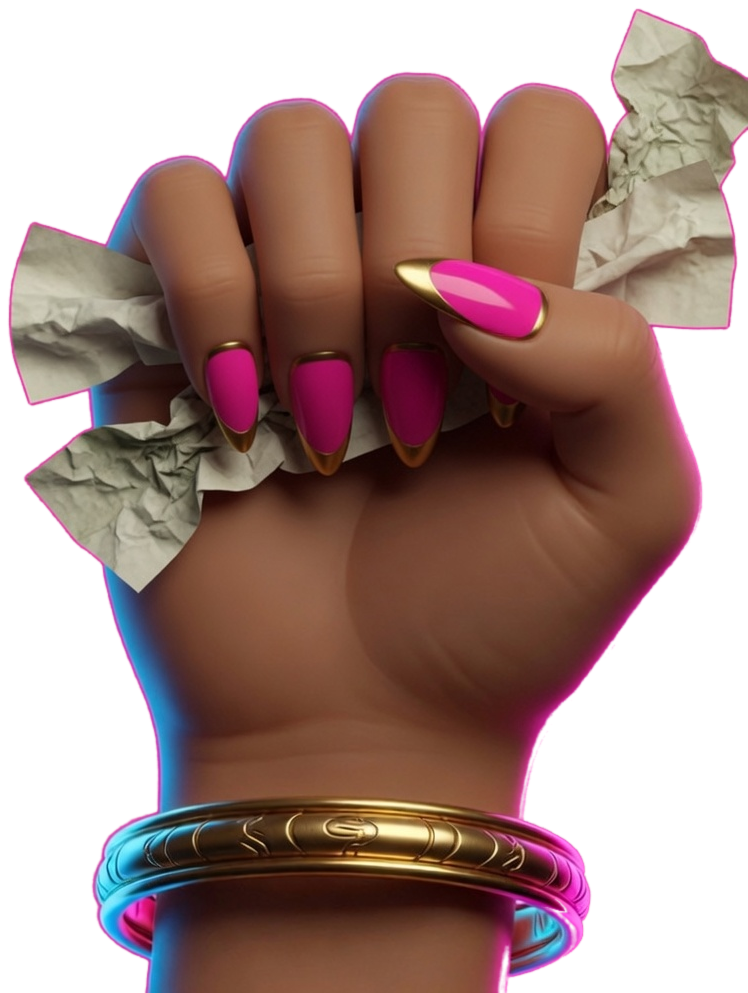
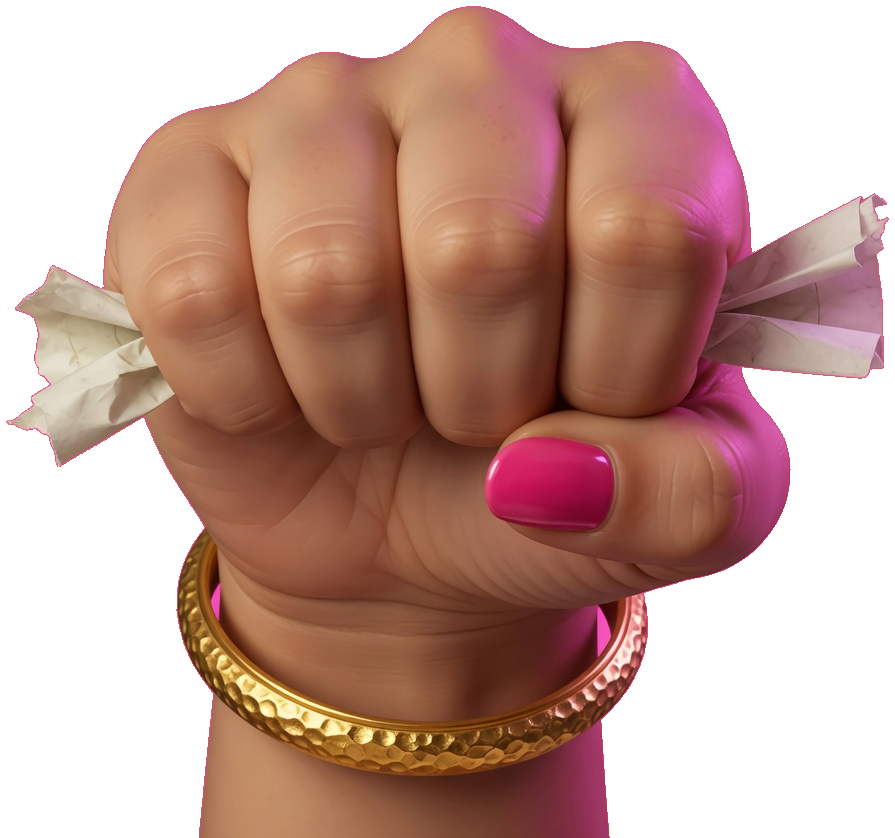
fix: Stage Tips knuckle grab, X share, Steam button
Grab shows the back of the fist. X posts open with the score and
the mini-game link. Wishlist buttons point at Steam with the new line.

diff --git a/stage-tips/game.js b/stage-tips/game.js
@@ -283,7 +283,7 @@
   grabImg.onload = function () { spritesReady += 1; };
   forearmImg.onload = function () { spritesReady += 1; };
   handImg.src = 'hand.png';
-  grabImg.src = 'hand-grab.png';
+  grabImg.src = 'hand-grab.png?v=knuckle';
   forearmImg.src = 'forearm.png';
 
   function stepFloater(f, tx, ty, dt) {
@@ -336,9 +336,9 @@
     len = hw * 2.04;
     inset = fw * 0.2;
     sprite = (f.grabUntil && performance.now() < f.grabUntil) ? grabImg : handImg;
-    wristFrac = sprite === grabImg ? 0.838 : 0.88;
+    wristFrac = sprite === grabImg ? 0.894 : 0.88;
     if (sprite === grabImg) {
-      hw *= 0.418 / 0.441;
+      hw *= 0.418 / 0.385;
     }
     hh = hw * (sprite.height / sprite.width);
     ctx.save();
@@ -645,9 +645,10 @@
   document.getElementById('shareBtn').addEventListener('click', function () {
     var text = 'I caught ' + money(match ? match.cash : 0) + ' in tips! Can you beat my score?';
     var page = 'https://stripclubempire.com/stage-tips/';
+    var post = text + ' ' + page;
     var sheet = document.getElementById('shareSheet');
-    document.getElementById('sharePreview').textContent = text;
-    document.getElementById('shareX').href = 'https://twitter.com/intent/tweet?text=' + encodeURIComponent(text) + '&url=' + encodeURIComponent(page);
+    document.getElementById('sharePreview').textContent = post;
+    document.getElementById('shareX').href = 'https://x.com/intent/post?text=' + encodeURIComponent(post);
     document.getElementById('shareFb').href = 'https://www.facebook.com/sharer/sharer.php?u=' + encodeURIComponent(page) + '&quote=' + encodeURIComponent(text);
     document.getElementById('shareReddit').href = 'https://www.reddit.com/submit?url=' + encodeURIComponent(page) + '&title=' + encodeURIComponent(text);
     sheet.hidden = false;

diff --git a/stage-tips/index.html b/stage-tips/index.html
@@ -87,7 +87,7 @@
           <p id="bestStart" class="best-note" hidden></p>
           <div class="actions">
             <button type="button" class="btn btn-primary" id="playBtn">Play</button>
-            <a class="btn btn-secondary" href="https://store.steampowered.com/app/4994860/Strip_Club_Empire/" target="_blank" rel="noopener">Wishlist Strip Club Empire</a>
+            <a class="btn btn-secondary" href="https://store.steampowered.com/app/4994860/Strip_Club_Empire/" target="_blank" rel="noopener">Wanna manage your own strip club? Visit Strip Club Empire on Steam</a>
           </div>
           <p class="fine">A one-minute slice of the club. The real game is a management sim: design the floor, run the night, grow the empire.</p>
         </div>
@@ -105,7 +105,7 @@
           <p id="endBest" class="best-note"></p>
           <p>This was a minute and a half on stage. The full game is designing and running the whole club.</p>
           <div class="end-actions">
-            <a class="btn btn-primary" href="https://store.steampowered.com/app/4994860/Strip_Club_Empire/" target="_blank" rel="noopener">Wishlist the full club on Steam</a>
+            <a class="btn btn-primary" href="https://store.steampowered.com/app/4994860/Strip_Club_Empire/" target="_blank" rel="noopener">Wanna manage your own strip club? Visit Strip Club Empire on Steam</a>
             <button type="button" class="btn btn-secondary" id="againBtn">Play again</button>
             <button type="button" class="btn btn-secondary" id="shareBtn">Share score</button>
           </div>

diff --git a/stage-tips/style.css b/stage-tips/style.css
@@ -89,6 +89,9 @@ h1 { font-size: clamp(28px, 6vw, 40px); }
   display: inline-flex;
   align-items: center;
   justify-content: center;
+  text-align: center;
+  line-height: 1.3;
+  white-space: normal;
   min-height: 48px;
   padding: 12px 16px;
   border-radius: 999px;
